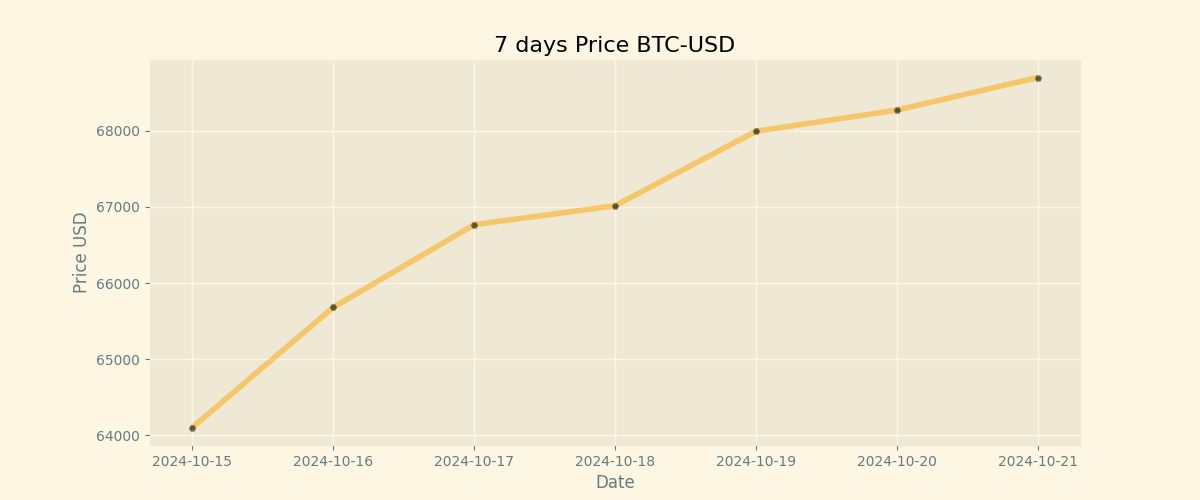
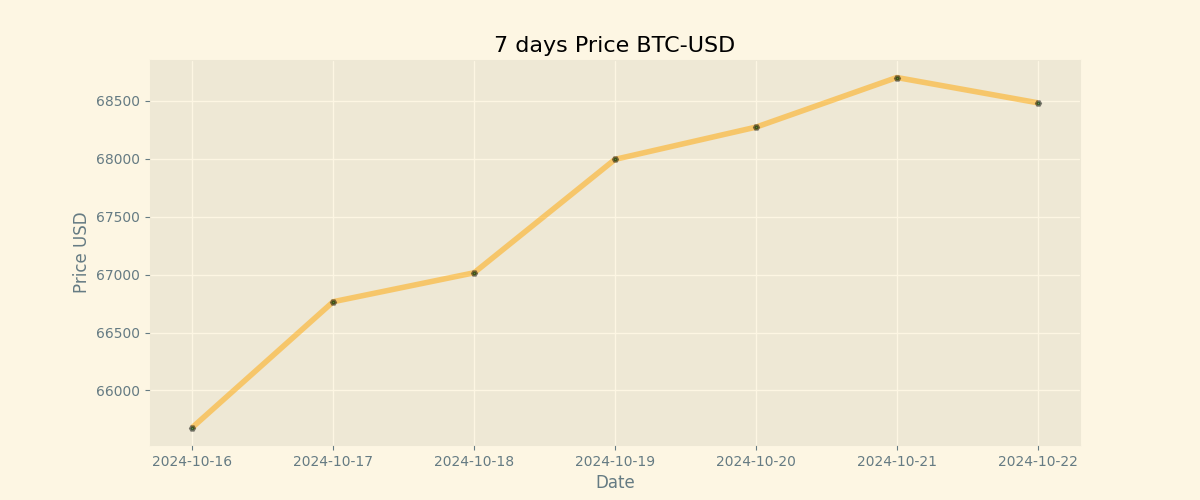
Duty Updates 2024-10-22

diff --git a/README.md b/README.md
@@ -9,8 +9,8 @@
 
 | Currency | Price           |
 | -------- | --------------- |
-| **BTC**  | **$ 68702.36** |
-| **ETH**  | **$ 2700.0** |
+| **BTC**  | **$ 68484.03** |
+| **ETH**  | **$ 2712.3** |
 
 ## BTC chart
 
